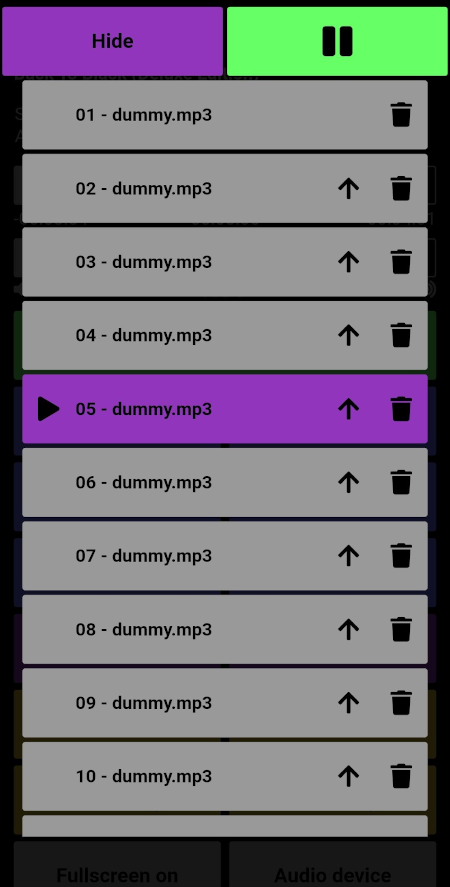
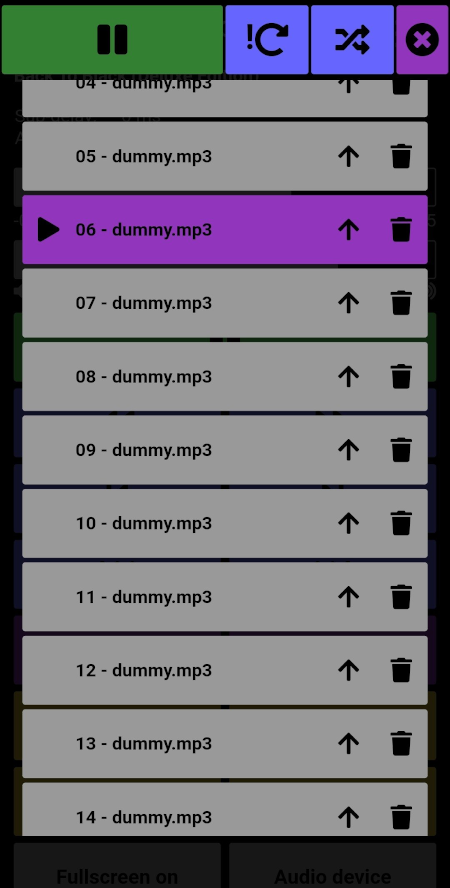
feat(playlist): refactor playlist controls; add more buttons
This commit adds the following new features:

 - Add endpoint for playlist shuffling
 - Add endpoint for loop_file
 - Add endpoint for loop_playlist
 - Add loop information to status response
 - Refactor top button bar in playlist overlay
 - Add buttons for loop control and shuffling

diff --git a/webui-page/webui.js b/webui-page/webui.js
@@ -117,7 +117,6 @@ function createPlaylistTable(entry, position, pause, first) {
 
   td_right.onclick = function(arg) {
       return function() {
-          console.log(arg);
           send("playlist_remove", arg);
           return false;
       }
@@ -312,6 +311,44 @@ function setPlayPause(value) {
   }
 }
 
+function playlist_loop_cycle() {
+  var loopButton = document.getElementsByClassName('playlistLoopButton');
+  if (loopButton.value === "no") {
+    send("loop_file", "inf");
+    send("loop_playlist", "no");
+  } else if (loopButton.value === "1") {
+    send("loop_file", "no");
+    send("loop_playlist", "inf");
+  } else if (loopButton.value === "a") {
+    send("loop_file", "no");
+    send("loop_playlist", "no");
+  }
+}
+
+function setLoop(loopFile, loopPlaylist) {
+  var loopButton = document.getElementsByClassName('playlistLoopButton');
+  var html = '<i class="fas fa-redo-alt"></i>';
+  var value = "";
+  if (loopFile === "no") {
+    if (loopPlaylist === "no") {
+      html = '!<i class="fas fa-redo-alt"></i>';
+      value = "no";
+    } else {
+      html = '<i class="fas fa-redo-alt"></i>Σ';
+      value = "a";
+    }
+  } else {
+    html = '<i class="fas fa-redo-alt"></i>1';
+    value = "1";
+  }
+
+  [].slice.call(loopButton).forEach(function (div) {
+      div.innerHTML = html;
+    });
+
+  loopButton.value = value;
+}
+
 function handleStatusResponse(json) {
   setMetadata(json['metadata'], json['playlist'], json['filename']);
   setTrackList(json['track-list']);
@@ -326,6 +363,7 @@ function handleStatusResponse(json) {
   setPlayPause(json['pause']);
   setPosSlider(json['position'], json['duration']);
   setVolumeSlider(json['volume'], json['volume-max']);
+  setLoop(json["loop-file"], json["loop-playlist"]);
   setFullscreenButton(json['fullscreen']);
   populatePlaylist(json['playlist'], json['pause']);
   if ('mediaSession' in navigator) {

diff --git a/webui-page/index.html b/webui-page/index.html
@@ -23,16 +23,30 @@
   </head>
   <body>
     <div id="overlay">
-      <div onClick="togglePlaylist()" class="button left violet playlist-button">
-        <div class="content text-content">
-          Hide
-        </div>
-      </div>
-      <div onClick="send('toggle_pause')" class="button right green playlist-button">
-        <div class="content icon-content playPauseButton">
-          <i class="fas fa-play"></i><i class="fas fa-pause"></i>
-        </div>
-      </div>
+      <table class="playlist-control">
+        <tr>
+          <td>
+              <div onClick="send('toggle_pause')" class="button green content icon-content playPauseButton playlist-controls">
+                <i class="fas fa-play"></i><i class="fas fa-pause"></i>
+              </div>
+          </td>
+          <td>
+              <div onClick="playlist_loop_cycle()" class="button blue content icon-content playlist-controls playlistLoopButton">
+                <i class="fas fa-redo-alt"></i>
+              </div>
+          </td>
+          <td>
+              <div onClick="send('playlist_shuffle')" class="button blue content icon-content playlist-controls">
+                <i class="fas fa-random"></i>
+              </div>
+          </td>
+          <td>
+              <div onClick="togglePlaylist()" class="button violet content icon-content playlist-controls">
+                <i class="fas fa-times-circle"></i>
+              </div>
+          </td>
+        </tr>
+      </table>
       <div id="playlist"></div>
     </div>
 

diff --git a/webui-page/webui.css b/webui-page/webui.css
@@ -68,7 +68,7 @@ h3 {
   filter: brightness(30%);
 }
 
-.button .content, .button .content i {
+.button .content, .button .content i, .icon-content i {
   text-align: center;
   vertical-align: middle;
   line-height: 150px;
@@ -252,7 +252,6 @@ input[type="range"] {
   overflow: scroll;
   max-height: 80vh;
   padding-bottom: 100px;
-  margin-top: 175px;
   position: absolute;
   width: 100%;
 }
@@ -263,15 +262,39 @@ input[type="range"] {
 
 .playlist-button {
   margin-top: 15px;
+}
+
+.playlistLoopButton {
+  font-weight: bold;
+}
+
+.playlist-controls {
+  width: 100%;
+  font-size: 75px;
   margin-bottom: 10px;
+  margin-top: 4px;
 }
 
-.playlist-button.left {
-  margin-left: 5px;
+table.playlist-control {
+  width: 100%;
 }
 
-.playlist-button.right {
-  margin-right: 5px;
+table.playlist-control tr {
+  height: 150px;
+}
+
+table.playlist-control td {
+  width: 19%;
+  padding-left: 2px;
+  padding-right: 2px;
+}
+
+table.playlist-control td:first-child {
+  width: 50%;
+}
+
+table.playlist-control td:last-child {
+  width: 12%;
 }
 
 table.playlist {

diff --git a/README.md b/README.md
@@ -125,6 +125,9 @@ You can also directly talk to the endpoints:
 | /api/playlist_move/:source/:target | POST   | `int` and `int`                    | Move playlist item from position `:source` to position `:target`        |
 | /api/playlist_move_up/:index       | POST   | `int`                              | Move playlist item at position `:index` one position up                 |
 | /api/playlist_remove/:index        | POST   | `int`                              | Remove playlist item at position `:index`                               |
+| /api/playlist_shuffle              | POST   |                                    | Shuffle the playlist                                                    |
+| /api/loop_file/:mode               | POST   | `string` or `int`                  | Loop the current file. `:mode` acceppts the same loop modes as mpv      |
+| /api/loop_playlisr/:mode           | POST   | `string` or `int`                  | Loop the whole playlist `:mode` acceppts the same loop modes as mpv     |
 | /api/add_chapter/:amount           | POST   | `int` (can be negative)            | Jump `:amount` chapters in current media                                |
 | /api/add_volume/:percent           | POST   | `int` or `float` (can be negative) | Add :percent% volume                                                    |
 | /api/set_volume/:percent           | POST   | `int` or `float`                   | Set volume to :percent%                                                 |
@@ -145,15 +148,17 @@ information about the error.
 ``` json
 {
     "filename": "big_buck_bunny_1080p_stereo.ogg",
-    "duration": 596,      # <-- seconds
-    "position": 122,      # <-- seconds
+    "duration": 596,         # <-- seconds
+    "position": 122,         # <-- seconds
     "pause": true,
-    "remaining": 474,     # <-- seconds
-    "sub-delay": 0,       # <-- milliseconds
-    "audio-delay": 0,     # <-- milliseconds
+    "remaining": 474,        # <-- seconds
+    "sub-delay": 0,          # <-- milliseconds
+    "audio-delay": 0,        # <-- milliseconds
     "fullscreen": false,
-    "metadata": {},       # <-- All metadata available to MPV
-    "track-list": [       # <-- All available video, audio and sub tracks
+    "loop-file": "no",       # <-- `no`, `inf` or integer
+    "loop-playlist": "no",   # <-- `no`, `inf`, `force` or integer
+    "metadata": {},          # <-- All metadata available to MPV
+    "track-list": [          # <-- All available video, audio and sub tracks
         {
             "id": 1,
             "type": "video",
@@ -189,7 +194,7 @@ information about the error.
     ],
     "volume": 64,
     "volume-max": 130,
-    "playlist": [         # <-- All files in the current playlist
+    "playlist": [            # <-- All files in the current playlist
         {
             "filename": "Videos/big_buck_bunny_1080p_stereo.ogg",
             "current": true,
